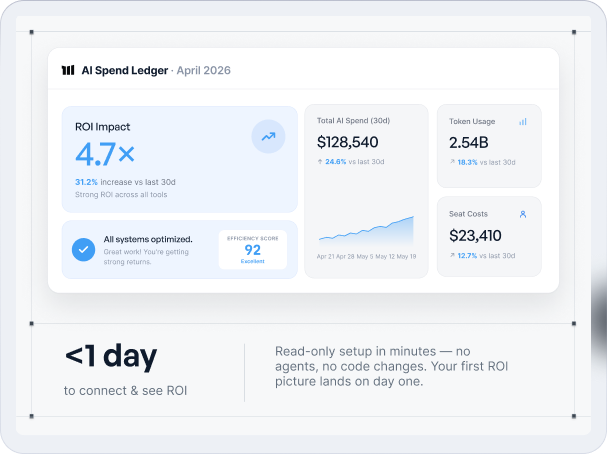
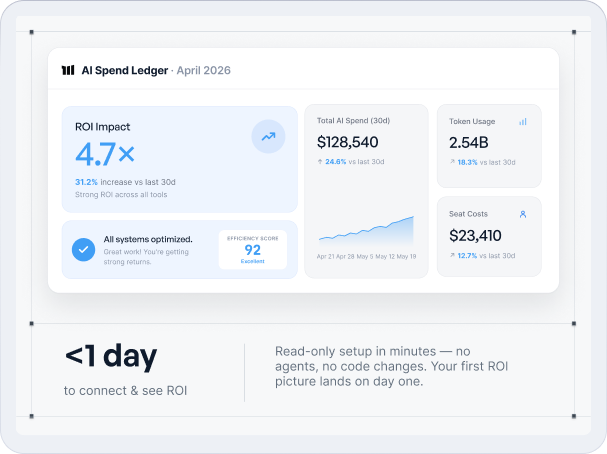
Update Full hero Section in spend hub page

diff --git a/mstone.ai-html/html/blocks/hub-hero/hub-hero.css b/mstone.ai-html/html/blocks/hub-hero/hub-hero.css
@@ -1,1 +1,1 @@
-.hub-hero-section{background:#010103;padding:200px 0 120px}.hub-hero-section .page-title{max-width:575px}.hub-hero-section .page-title .title{font-weight:500;font-size:64px;color:#ffffff;line-height:1;margin-bottom:32px}.hub-hero-section .page-title .title span{color:#87BFF3;display:block}.hub-hero-section .page-title .sort-info{font-weight:400;font-size:18px;color:#C8D0D9;max-width:500px}.hub-hero-section .page-title .action{margin-top:64px;display:-webkit-box;display:-ms-flexbox;display:flex;-ms-flex-wrap:wrap;flex-wrap:wrap;gap:8px}.hub-hero-section .image-block{position:relative}.hub-hero-section .image-block .main-img{position:relative;z-index:1;max-width:605px}.hub-hero-section .image-block .main-img img{width:100%}.hub-hero-section .image-block .main-img img::before{content:'';background:-webkit-gradient(linear, left bottom, left top, from(rgba(160,179,201,0.19)), to(rgba(160,179,201,0.19))),rgba(255,255,255,0.01);background:linear-gradient(0deg, rgba(160,179,201,0.19), rgba(160,179,201,0.19)),rgba(255,255,255,0.01);-webkit-backdrop-filter:blur(17.2px);backdrop-filter:blur(17.2px);border-radius:24px;width:100%;height:100%;position:absolute;top:0;left:0}.hub-hero-section .image-block .helper-images .helper-image{position:absolute;width:80px;height:80px;-webkit-box-flex:0;-ms-flex:none;flex:none;display:inline-block;z-index:2}.hub-hero-section .image-block .helper-images .helper-image-1{top:205px;left:-97px}.hub-hero-section .image-block .helper-images .helper-image-2{top:87px;left:-35px}.hub-hero-section .image-block .helper-images .helper-image-3{bottom:95px;right:-57px;z-index:0}.hub-hero-section .image-block .helper-images .helper-image-4{bottom:-46px;right:146px}
+.hub-hero-section{background:#010103;padding:200px 0 120px;overflow:hidden}@media (max-width: 1200px){.hub-hero-section{padding:150px 0 80px}}@media (max-width: 992px){.hub-hero-section{padding:120px 0 50px}}.hub-hero-section .page-title{max-width:575px}@media (max-width: 767px){.hub-hero-section .page-title{margin-bottom:20px}}.hub-hero-section .page-title .title{font-weight:500;font-size:64px;color:#ffffff;line-height:1;margin-bottom:32px}@media (max-width: 992px){.hub-hero-section .page-title .title{font-size:44px}}.hub-hero-section .page-title .title span{color:#87BFF3;display:block}.hub-hero-section .page-title .sort-info{font-weight:400;font-size:18px;color:#C8D0D9;max-width:500px}@media (max-width: 992px){.hub-hero-section .page-title .sort-info{max-width:100%;font-size:16px}}.hub-hero-section .page-title .action{margin-top:64px;display:-webkit-box;display:-ms-flexbox;display:flex;-ms-flex-wrap:wrap;flex-wrap:wrap;gap:8px}@media (max-width: 992px){.hub-hero-section .page-title .action{margin-top:50px}}.hub-hero-section .image-block{position:relative;z-index:1}.hub-hero-section .image-block::before,.hub-hero-section .image-block::after{content:'';position:absolute;background-size:contain;width:450px;height:490px;display:block;z-index:-1}@media (max-width: 1200px){.hub-hero-section .image-block::before,.hub-hero-section .image-block::after{width:350px;height:390px}}@media (max-width: 767px){.hub-hero-section .image-block::before,.hub-hero-section .image-block::after{height:320px}}.hub-hero-section .image-block::before{background:url(../../assets/images/img-bg-shadow-top.svg) no-repeat top left;top:-110px;left:-135px}.hub-hero-section .image-block::after{background:url(../../assets/images/img-bg-shadow-bottom.svg) no-repeat bottom right;bottom:-110px;right:-100px}.hub-hero-section .image-block .main-img{position:relative;z-index:1;overflow:hidden;border-radius:20px}@media (max-width: 1200px){.hub-hero-section .image-block .main-img{border-radius:15px}}@media (max-width: 992px){.hub-hero-section .image-block .main-img{border-radius:20px}}@media (max-width: 767px){.hub-hero-section .image-block .main-img{border-radius:10px}}.hub-hero-section .image-block .main-img::before{content:'';background:-webkit-gradient(linear, left bottom, left top, from(rgba(160,179,201,0.19)), to(rgba(160,179,201,0.19))),rgba(255,255,255,0.01);background:linear-gradient(0deg, rgba(160,179,201,0.19), rgba(160,179,201,0.19)),rgba(255,255,255,0.01);-webkit-backdrop-filter:blur(17.2px);backdrop-filter:blur(17.2px);width:100%;height:100%;position:absolute;top:0;left:0;z-index:-1}.hub-hero-section .image-block .main-img img{width:100%}.hub-hero-section .image-block .helper-images .helper-image{position:absolute;width:80px;height:80px;-webkit-box-flex:0;-ms-flex:none;flex:none;display:inline-block;z-index:2}@media (max-width: 1440px){.hub-hero-section .image-block .helper-images .helper-image{width:60px;height:60px}}@media (max-width: 767px){.hub-hero-section .image-block .helper-images .helper-image{width:50px;height:50px}}.hub-hero-section .image-block .helper-images .helper-image-1{top:205px;left:-97px}@media (max-width: 1440px){.hub-hero-section .image-block .helper-images .helper-image-1{left:-57px}}@media (max-width: 992px){.hub-hero-section .image-block .helper-images .helper-image-1{left:-35px}}@media (max-width: 767px){.hub-hero-section .image-block .helper-images .helper-image-1{top:180px;left:-15px}}.hub-hero-section .image-block .helper-images .helper-image-2{top:87px;left:-35px}@media (max-width: 1440px){.hub-hero-section .image-block .helper-images .helper-image-2{left:-25px}}@media (max-width: 767px){.hub-hero-section .image-block .helper-images .helper-image-2{top:67px;left:-20px}}.hub-hero-section .image-block .helper-images .helper-image-3{bottom:95px;right:-57px;z-index:0}@media (max-width: 1440px){.hub-hero-section .image-block .helper-images .helper-image-3{right:-42px}}@media (max-width: 992px){.hub-hero-section .image-block .helper-images .helper-image-3{right:-35px}}@media (max-width: 767px){.hub-hero-section .image-block .helper-images .helper-image-3{right:-15px;z-index:1}}.hub-hero-section .image-block .helper-images .helper-image-4{bottom:-46px;right:146px}@media (max-width: 1440px){.hub-hero-section .image-block .helper-images .helper-image-4{bottom:-25px}}

diff --git a/mstone.ai-html/html/blocks/hub-hero/hub-hero.scss b/mstone.ai-html/html/blocks/hub-hero/hub-hero.scss
@@ -1,14 +1,27 @@
 .hub-hero-section {
     background: #010103;
     padding: 200px 0 120px;
+    overflow: hidden;
+    @media (max-width: 1200px) {
+        padding: 150px 0 80px;
+    }
+    @media (max-width: 992px) {
+        padding: 120px 0 50px;
+    }
     .page-title {
         max-width: 575px;
+        @media (max-width: 767px) {
+            margin-bottom: 20px;
+        }
         .title {
             font-weight: 500;
             font-size: 64px;
             color: #ffffff;
             line-height: 1;
             margin-bottom: 32px;
+            @media (max-width: 992px) {
+                font-size: 44px;
+            }
             span {
                 color: #87BFF3;
                 display: block;
@@ -19,33 +32,77 @@
             font-size: 18px;
             color: #C8D0D9;
             max-width: 500px;
+            @media (max-width: 992px) {
+                max-width: 100%;
+                font-size: 16px;
+            }
         }
         .action {
             margin-top: 64px;
             display: flex;
             flex-wrap: wrap;
             gap: 8px;
+            @media (max-width: 992px) {
+                margin-top: 50px;
+            }
         }
     }
     .image-block {
         position: relative;
+        z-index: 1;
+        &::before, &::after {
+            content: '';
+            position: absolute;
+            background-size: contain;
+            width: 450px;
+            height: 490px;
+            display: block;
+            z-index: -1;
+            @media (max-width: 1200px) {
+                width: 350px;
+                height: 390px;
+            }
+            @media (max-width: 767px) {
+                height: 320px;           
+            }
+        }
+        &::before {           
+            background: url(../../assets/images/img-bg-shadow-top.svg) no-repeat top left;
+            top: -110px;
+            left: -135px; 
+        }
+        &::after {
+            background: url(../../assets/images/img-bg-shadow-bottom.svg) no-repeat bottom right;
+            bottom: -110px;
+            right: -100px;
+        }
         .main-img {
             position: relative;
             z-index: 1;
-            max-width: 605px;
+            overflow: hidden;
+            border-radius: 20px;
+            @media (max-width: 1200px) {
+                border-radius: 15px;                
+            }
+            @media (max-width: 992px) {
+                border-radius: 20px;                
+            }
+            @media (max-width: 767px) {
+                border-radius: 10px;                
+            }
+            &::before {
+                content: '';
+                background: linear-gradient(0deg, rgba(160, 179, 201, 0.19), rgba(160, 179, 201, 0.19)), rgba(255, 255, 255, 0.01);
+                backdrop-filter: blur(17.2px);
+                width: 100%;
+                height: 100%;
+                position: absolute;
+                top: 0;
+                left: 0;
+                z-index: -1;
+            }
             img {
                 width: 100%;
-                &::before {
-                    content: '';
-                    background: linear-gradient(0deg, rgba(160, 179, 201, 0.19), rgba(160, 179, 201, 0.19)), rgba(255, 255, 255, 0.01);
-                    backdrop-filter: blur(17.2px);
-                    border-radius: 24px;
-                    width: 100%;
-                    height: 100%;
-                    position: absolute;
-                    top: 0;
-                    left: 0;
-                }
             }
         }
         .helper-images {
@@ -56,22 +113,60 @@
                 flex: none;
                 display: inline-block;
                 z-index: 2;
+                @media (max-width: 1440px) {
+                    width: 60px;
+                    height: 60px;
+                }
+                @media (max-width: 767px) {
+                    width: 50px;
+                    height: 50px;
+                }
                 &-1 {
                     top: 205px;
                     left: -97px;
+                    @media (max-width: 1440px) {
+                        left: -57px;
+                    }
+                    @media (max-width: 992px) {
+                        left: -35px;
+                    }
+                    @media (max-width: 767px) {
+                        top: 180px;
+                        left: -15px;
+                    }
                 }
                 &-2 {
                     top: 87px;
                     left: -35px;
+                    @media (max-width: 1440px) {
+                        left: -25px;
+                    }
+                    @media (max-width: 767px) {
+                        top: 67px;
+                        left: -20px;
+                    }
                 }
                 &-3 {
                     bottom: 95px;
                     right: -57px;
                     z-index: 0;
+                    @media (max-width: 1440px) {
+                        right: -42px;
+                    }
+                    @media (max-width: 992px) {
+                        right: -35px;
+                    }
+                    @media (max-width: 767px) {
+                        right: -15px;
+                        z-index: 1;
+                    }
                 }
                 &-4 {
                     bottom: -46px;
                     right: 146px;
+                    @media (max-width: 1440px) {
+                        bottom: -25px;
+                    }
                 }
             }
         }

diff --git a/mstone.ai-html/html/spend-hub.html b/mstone.ai-html/html/spend-hub.html
@@ -64,8 +64,8 @@
             <link rel='stylesheet' id='icw-hub-hero-css' href='blocks/hub-hero/hub-hero.css' type='text/css' media='all' /> 
             <section class="main-section hub-hero-section is-dark">
                 <div class="container">
-                    <div class="row">
-                        <div class="col-md-6">
+                    <div class="row g-4 g-md-5 d-lg-4">
+                        <div class="col-lg-6">
                             <div class="page-title">
                                 <h1 class="title"><span>Spend Hub.</span> See what every AI dollar gives back.</h1>
                                 <div class="sort-info">Spend Hub joins your AI tool invoices to the engineering signals Milestone already tracks - turning seats, subscriptions, and usage into one defensible ROI picture you can take to a renewal or a budget review.</div>
@@ -75,7 +75,7 @@
                                 </div>
                             </div>
                         </div>
-                        <div class="col-md-6">
+                        <div class="col-lg-6">
                             <div class="image-block">
                                 <div class="main-img">
                                     <img src="upload/img-hero-spend-hub.png" alt="">
